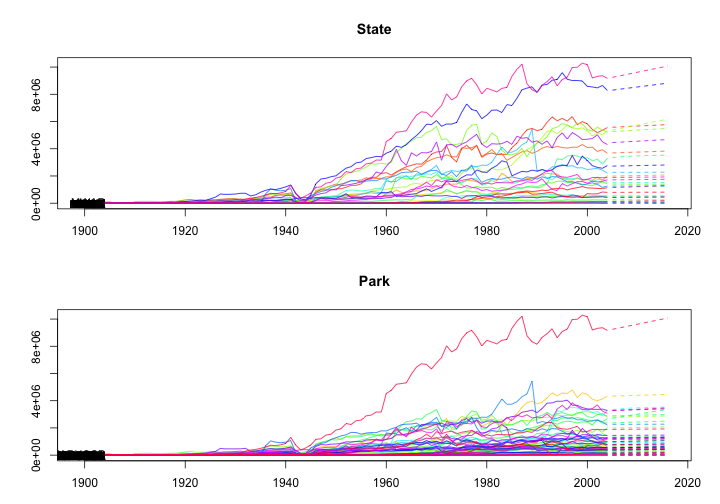
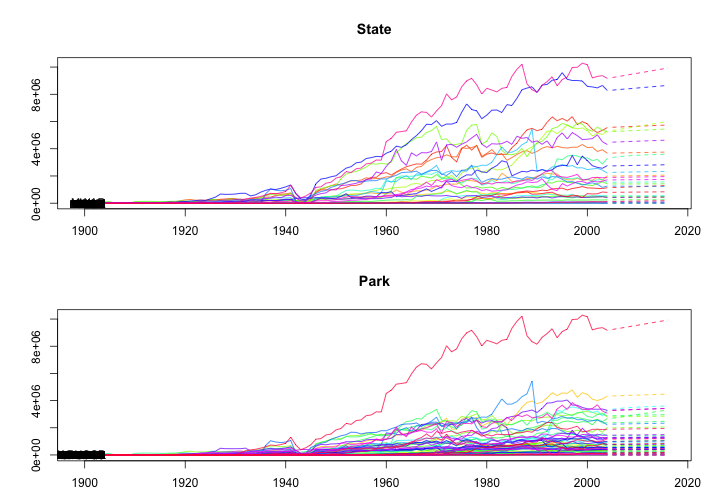
add slide demonstrating coherency in example

diff --git a/hierarchical-forecasting/hierarchical-forecasting.html b/hierarchical-forecasting/hierarchical-forecasting.html
@@ -288,8 +288,8 @@ nps_fcasts &lt;- forecast(
   h = 12,             # forecast horizon, next 12 years (2005-2016)
   method = "comb",    # optimal combination, method for distributing forecasts within the hierarchy
   fmethod = "ets",    # forecasting method used for each series, exponential smoothing, or "arima" and "rw"
-  keep.fitted = TRUE,
-  keep.resid = TRUE
+  weights = "mint",   # trace minimization full cov estimate to determine weights (as in Wickramasuriya 2018)
+  covariance = "shr"  # covariance matrix, shrinkage estimator with shrinkage towards diagonal
 )
 
 nps_fcasts
@@ -307,8 +307,8 @@ nps_fcasts
 ## Start = 2005 
 ## End = 2016 
 ## Frequency = 1 
-##  [1] 64857223 65192658 65525673 65856785 66186405 66514856 66842396
-##  [8] 67169227 67495511 67821373 68146912 68472207
+##  [1] 64880582 65180426 65475738 65767492 66056461 66343256 66628358
+##  [8] 66912146 67194921 67476918 67758319 68039270
 ```
 
 ---
@@ -328,6 +328,90 @@ plot(nps_fcasts, levels = c(2, 3))
 ```
 
 ![](hierarchical-forecasting_files/figure-html/unnamed-chunk-8-1.png)&lt;!-- --&gt;
+
+---
+
+Are the forecasts coherent?
+
+
+```r
+aggts(nps_fcasts) %&gt;% 
+  as_tibble() %&gt;% 
+  mutate(Year = 2005:2016) %&gt;% 
+  select(Year, Total, contains("NE")) %&gt;% 
+  mutate_if(is.numeric, round, 1) %&gt;% 
+  tail() %&gt;% knitr::kable("html")
+```
+
+&lt;table&gt;
+ &lt;thead&gt;
+  &lt;tr&gt;
+   &lt;th style="text-align:right;"&gt; Year &lt;/th&gt;
+   &lt;th style="text-align:right;"&gt; Total &lt;/th&gt;
+   &lt;th style="text-align:right;"&gt; NE &lt;/th&gt;
+   &lt;th style="text-align:right;"&gt; NEME &lt;/th&gt;
+   &lt;th style="text-align:right;"&gt; NEVA &lt;/th&gt;
+   &lt;th style="text-align:right;"&gt; NEMEACAD &lt;/th&gt;
+   &lt;th style="text-align:right;"&gt; NEVASHEN &lt;/th&gt;
+  &lt;/tr&gt;
+ &lt;/thead&gt;
+&lt;tbody&gt;
+  &lt;tr&gt;
+   &lt;td style="text-align:right;"&gt; 2011 &lt;/td&gt;
+   &lt;td style="text-align:right;"&gt; 66628358 &lt;/td&gt;
+   &lt;td style="text-align:right;"&gt; 3549296 &lt;/td&gt;
+   &lt;td style="text-align:right;"&gt; 2306334 &lt;/td&gt;
+   &lt;td style="text-align:right;"&gt; 1242962 &lt;/td&gt;
+   &lt;td style="text-align:right;"&gt; 2306334 &lt;/td&gt;
+   &lt;td style="text-align:right;"&gt; 1242962 &lt;/td&gt;
+  &lt;/tr&gt;
+  &lt;tr&gt;
+   &lt;td style="text-align:right;"&gt; 2012 &lt;/td&gt;
+   &lt;td style="text-align:right;"&gt; 66912146 &lt;/td&gt;
+   &lt;td style="text-align:right;"&gt; 3554430 &lt;/td&gt;
+   &lt;td style="text-align:right;"&gt; 2313095 &lt;/td&gt;
+   &lt;td style="text-align:right;"&gt; 1241335 &lt;/td&gt;
+   &lt;td style="text-align:right;"&gt; 2313095 &lt;/td&gt;
+   &lt;td style="text-align:right;"&gt; 1241335 &lt;/td&gt;
+  &lt;/tr&gt;
+  &lt;tr&gt;
+   &lt;td style="text-align:right;"&gt; 2013 &lt;/td&gt;
+   &lt;td style="text-align:right;"&gt; 67194922 &lt;/td&gt;
+   &lt;td style="text-align:right;"&gt; 3559576 &lt;/td&gt;
+   &lt;td style="text-align:right;"&gt; 2319806 &lt;/td&gt;
+   &lt;td style="text-align:right;"&gt; 1239770 &lt;/td&gt;
+   &lt;td style="text-align:right;"&gt; 2319806 &lt;/td&gt;
+   &lt;td style="text-align:right;"&gt; 1239770 &lt;/td&gt;
+  &lt;/tr&gt;
+  &lt;tr&gt;
+   &lt;td style="text-align:right;"&gt; 2014 &lt;/td&gt;
+   &lt;td style="text-align:right;"&gt; 67476918 &lt;/td&gt;
+   &lt;td style="text-align:right;"&gt; 3564727 &lt;/td&gt;
+   &lt;td style="text-align:right;"&gt; 2326472 &lt;/td&gt;
+   &lt;td style="text-align:right;"&gt; 1238255 &lt;/td&gt;
+   &lt;td style="text-align:right;"&gt; 2326472 &lt;/td&gt;
+   &lt;td style="text-align:right;"&gt; 1238255 &lt;/td&gt;
+  &lt;/tr&gt;
+  &lt;tr&gt;
+   &lt;td style="text-align:right;"&gt; 2015 &lt;/td&gt;
+   &lt;td style="text-align:right;"&gt; 67758319 &lt;/td&gt;
+   &lt;td style="text-align:right;"&gt; 3569880 &lt;/td&gt;
+   &lt;td style="text-align:right;"&gt; 2333096 &lt;/td&gt;
+   &lt;td style="text-align:right;"&gt; 1236783 &lt;/td&gt;
+   &lt;td style="text-align:right;"&gt; 2333096 &lt;/td&gt;
+   &lt;td style="text-align:right;"&gt; 1236783 &lt;/td&gt;
+  &lt;/tr&gt;
+  &lt;tr&gt;
+   &lt;td style="text-align:right;"&gt; 2016 &lt;/td&gt;
+   &lt;td style="text-align:right;"&gt; 68039270 &lt;/td&gt;
+   &lt;td style="text-align:right;"&gt; 3575030 &lt;/td&gt;
+   &lt;td style="text-align:right;"&gt; 2339684 &lt;/td&gt;
+   &lt;td style="text-align:right;"&gt; 1235345 &lt;/td&gt;
+   &lt;td style="text-align:right;"&gt; 2339684 &lt;/td&gt;
+   &lt;td style="text-align:right;"&gt; 1235345 &lt;/td&gt;
+  &lt;/tr&gt;
+&lt;/tbody&gt;
+&lt;/table&gt;
 
 ---
 
@@ -374,12 +458,12 @@ metrics %&gt;%
   &lt;tr&gt;
    &lt;td style="text-align:left;"&gt; comb &lt;/td&gt;
    &lt;td style="text-align:left;"&gt; MAPE &lt;/td&gt;
-   &lt;td style="text-align:right;"&gt; 5.63 &lt;/td&gt;
-   &lt;td style="text-align:right;"&gt; 9.09 &lt;/td&gt;
-   &lt;td style="text-align:right;"&gt; 9.65 &lt;/td&gt;
-   &lt;td style="text-align:right;"&gt; 9.16 &lt;/td&gt;
-   &lt;td style="text-align:right;"&gt; 9.65 &lt;/td&gt;
-   &lt;td style="text-align:right;"&gt; 9.16 &lt;/td&gt;
+   &lt;td style="text-align:right;"&gt; 5.6 &lt;/td&gt;
+   &lt;td style="text-align:right;"&gt; 8.89 &lt;/td&gt;
+   &lt;td style="text-align:right;"&gt; 9.17 &lt;/td&gt;
+   &lt;td style="text-align:right;"&gt; 9.01 &lt;/td&gt;
+   &lt;td style="text-align:right;"&gt; 9.17 &lt;/td&gt;
+   &lt;td style="text-align:right;"&gt; 9.01 &lt;/td&gt;
   &lt;/tr&gt;
 &lt;/tbody&gt;
 &lt;/table&gt;
@@ -424,14 +508,14 @@ tbl %&gt;%
   &lt;tr&gt;
    &lt;td style="text-align:left;"&gt; comb &lt;/td&gt;
    &lt;td style="text-align:left;"&gt; MAPE &lt;/td&gt;
-   &lt;td style="text-align:right;"&gt; 5.63 &lt;/td&gt;
-   &lt;td style="text-align:right;"&gt; 8.56 &lt;/td&gt;
-   &lt;td style="text-align:right;"&gt; 8.18 &lt;/td&gt;
-   &lt;td style="text-align:right;"&gt; 17.82 &lt;/td&gt;
-   &lt;td style="text-align:right;"&gt; 18.85 &lt;/td&gt;
-   &lt;td style="text-align:right;"&gt; 9.09 &lt;/td&gt;
+   &lt;td style="text-align:right;"&gt; 5.60 &lt;/td&gt;
+   &lt;td style="text-align:right;"&gt; 8.81 &lt;/td&gt;
+   &lt;td style="text-align:right;"&gt; 8.94 &lt;/td&gt;
+   &lt;td style="text-align:right;"&gt; 19.94 &lt;/td&gt;
+   &lt;td style="text-align:right;"&gt; 20.60 &lt;/td&gt;
+   &lt;td style="text-align:right;"&gt; 8.89 &lt;/td&gt;
    &lt;td style="text-align:right;"&gt; 4.85 &lt;/td&gt;
-   &lt;td style="text-align:right;"&gt; 14.40 &lt;/td&gt;
+   &lt;td style="text-align:right;"&gt; 13.96 &lt;/td&gt;
   &lt;/tr&gt;
   &lt;tr&gt;
    &lt;td style="text-align:left;"&gt; bu &lt;/td&gt;
@@ -524,12 +608,12 @@ tbl %&gt;%
   &lt;tr&gt;
    &lt;td style="text-align:left;"&gt; comb &lt;/td&gt;
    &lt;td style="text-align:left;"&gt; MAPE &lt;/td&gt;
-   &lt;td style="text-align:right;"&gt; 5.63 &lt;/td&gt;
-   &lt;td style="text-align:right;"&gt; 9.09 &lt;/td&gt;
-   &lt;td style="text-align:right;"&gt; 9.65 &lt;/td&gt;
-   &lt;td style="text-align:right;"&gt; 9.16 &lt;/td&gt;
-   &lt;td style="text-align:right;"&gt; 9.65 &lt;/td&gt;
-   &lt;td style="text-align:right;"&gt; 9.16 &lt;/td&gt;
+   &lt;td style="text-align:right;"&gt; 5.60 &lt;/td&gt;
+   &lt;td style="text-align:right;"&gt; 8.89 &lt;/td&gt;
+   &lt;td style="text-align:right;"&gt; 9.17 &lt;/td&gt;
+   &lt;td style="text-align:right;"&gt; 9.01 &lt;/td&gt;
+   &lt;td style="text-align:right;"&gt; 9.17 &lt;/td&gt;
+   &lt;td style="text-align:right;"&gt; 9.01 &lt;/td&gt;
   &lt;/tr&gt;
   &lt;tr&gt;
    &lt;td style="text-align:left;"&gt; bu &lt;/td&gt;
@@ -608,7 +692,8 @@ tbl %&gt;%
     - `gts()` function
 
 - Prediction intervals are not yet implemented directly in `hts`
-    - though it [looks possible to compute by hand](https://stats.stackexchange.com/questions/303176/building-the-covariance-matrix-for-hts-prediction-intervals)
+    - though it [looks possible to compute for the trace minimization method](https://stats.stackexchange.com/questions/303176/building-the-covariance-matrix-for-hts-prediction-intervals)
+    - the covariance estimator is needed to compute prediction intervals
 
 ---
 
